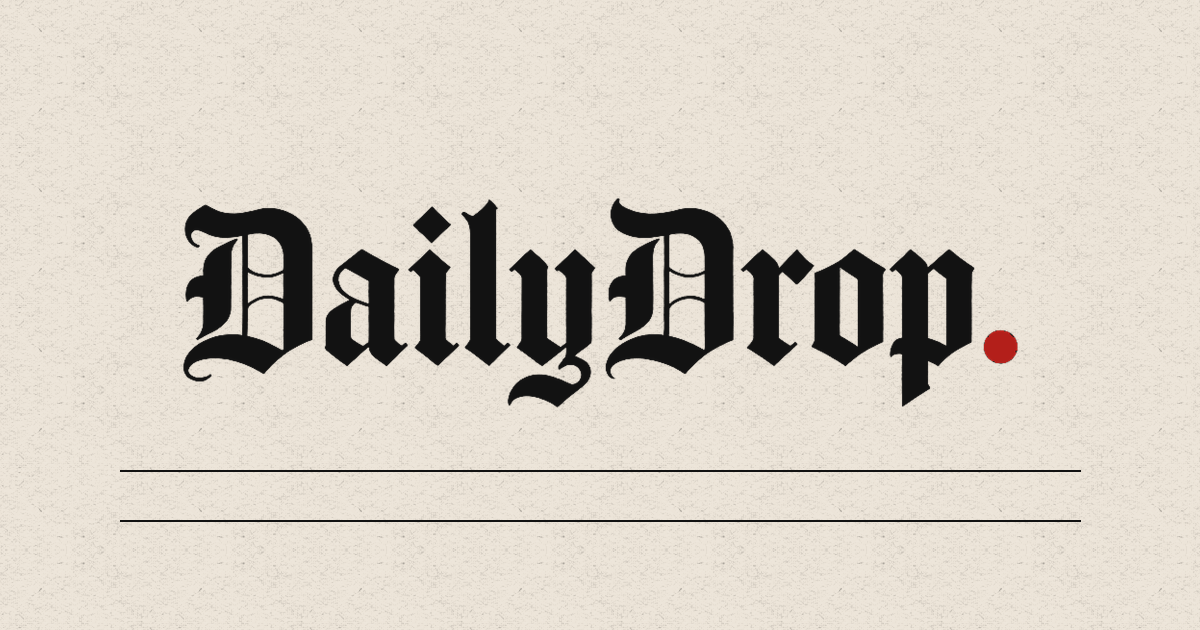
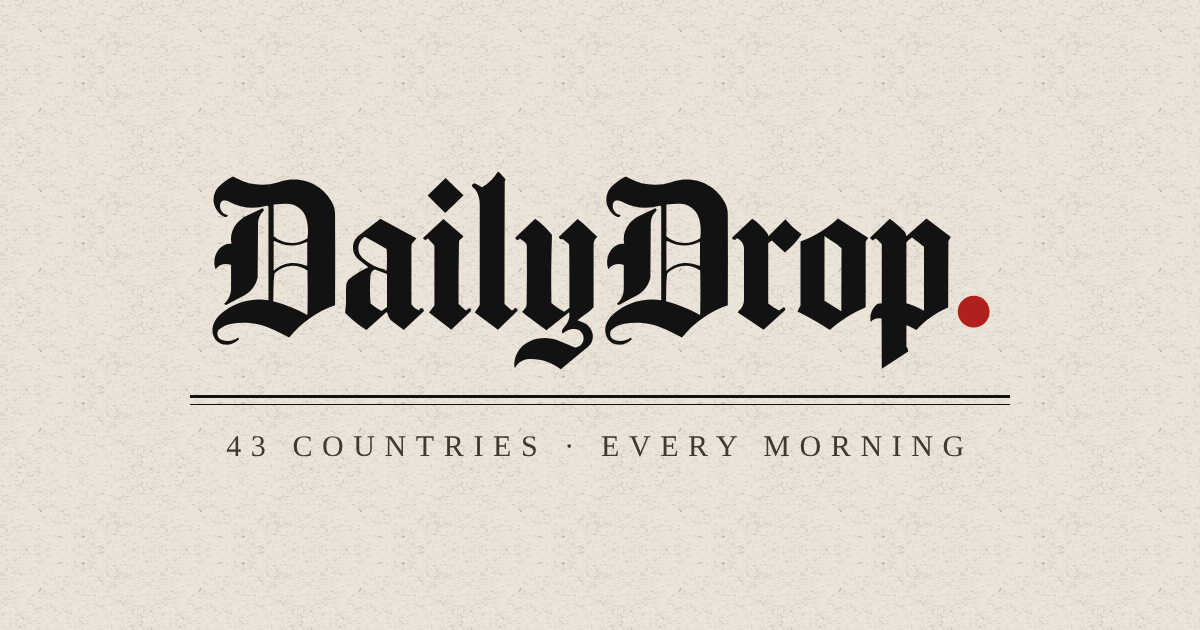
공유 미리보기 이미지 교체: 빈 줄 두 개 삭제, 로고 + '43 countries · every morning', 캐시 갱신(?v=3)
Claude-Session: https://claude.ai/code/session_01194J6eRjYk7y2N2oQRv7WX

Changed region(s): [[0.1542, 0.2714, 0.8633, 0.6635], [0.1233, 0.6937, 0.8942, 0.754], [0.1233, 0.8143, 0.8942, 0.8444]]

diff --git a/site/build.js b/site/build.js
@@ -176,7 +176,7 @@ const TEXTSCALE = `<script>(function(){try{var m=localStorage.getItem('dd_theme'
 const PAPERBG = `<style>html{background:#ece4d8}body{min-height:100vh;min-height:100dvh}@media(prefers-color-scheme:dark){html:not([data-theme="light"]){background:#14130f}}html[data-theme="dark"]{background:#14130f}</style><link rel="preconnect" href="https://fonts.googleapis.com"><link rel="preconnect" href="https://fonts.gstatic.com" crossorigin><script>(function(){var done={};function pf(u){if(!u||u.indexOf("/")!==0)return;u=u.split("?")[0].split("#")[0];if(done[u])return;done[u]=1;var l=document.createElement("link");l.rel="prefetch";l.href=u;document.head.appendChild(l)}document.addEventListener("toggle",function(e){var d=e.target;if(d&&d.open&&d.classList&&(d.classList.contains("dd-ed")||d.classList.contains("dd-lang")))d.querySelectorAll("a[href]").forEach(function(a){pf(a.getAttribute("href"))})},true);document.addEventListener("pointerdown",function(e){var a=e.target.closest&&e.target.closest(".dd-ed a[href],.dd-lang a[href],.dd-nav a[href]");if(a)pf(a.getAttribute("href"))},true)})();</script>`;
 const NOBLOCK = h => String(h).replace(/<link rel="stylesheet" href="(https:\/\/fonts\.googleapis\.com\/[^"]+)">/g, (m, u) => `<link rel="preload" as="style" href="${u}"><link rel="stylesheet" href="${u}" media="print" onload="this.media='all'"><noscript><link rel="stylesheet" href="${u}"></noscript>`).replace(/<meta charset="utf-8">/i, m => m + PAPERBG);
 { const _w = fs.writeFileSync; fs.writeFileSync = (f, d, ...r) => _w(f, typeof d === 'string' && /\.html$/.test(String(f)) && !d.includes('rel="preconnect" href="https://fonts.googleapis.com"') ? NOBLOCK(d) : d, ...r); }
-const HEAD = (title, desc, pathname = '/', lang = 'ko') => `<!doctype html><html lang="${lang}"${T(lang, 'dir') === 'rtl' ? ' dir="rtl"' : ''}><head><meta charset="utf-8">${TEXTSCALE}<meta name="viewport" content="width=device-width,initial-scale=1,viewport-fit=cover"><title>${esc(title)}</title><meta name="description" content="${esc(desc)}"><link rel="canonical" href="${SITE}${pathname}"><meta property="og:url" content="${SITE}${pathname}"><meta property="og:type" content="article"><meta property="og:title" content="${esc(title)}"><meta property="og:description" content="${esc(desc)}"><meta property="og:site_name" content="${lang === 'ko' ? '데일리드롭' : 'DailyDrop'}"><meta property="og:image" content="${SITE}/og.png"><meta name="twitter:card" content="summary_large_image"><link rel="icon" href="/brand/favicon-32.png?v=2" sizes="32x32" type="image/png"><link rel="icon" href="/brand/favicon-16.png?v=2" sizes="16x16" type="image/png"><link rel="apple-touch-icon" href="/brand/apple-touch-icon.png?v=2"><meta name="apple-mobile-web-app-title" content="DailyDrop"><meta name="application-name" content="DailyDrop"><link rel="manifest" href="/manifest.webmanifest"><meta name="theme-color" content="#ece4d8"><meta name="naver-site-verification" content="9fbffe5f4e2d380695044c9f778361f1cd05d958"><meta name="google-adsense-account" content="ca-pub-3262200458718888">${NAVCSS}${ACC.NAV_CSS}${XFONTS(lang)}${T(lang, 'dir') === 'rtl' ? RTLCSS : ''}</head><body${lang !== 'ko' ? ` data-filler="${esc(T(lang, 'filler'))}"` : ''}>`;
+const HEAD = (title, desc, pathname = '/', lang = 'ko') => `<!doctype html><html lang="${lang}"${T(lang, 'dir') === 'rtl' ? ' dir="rtl"' : ''}><head><meta charset="utf-8">${TEXTSCALE}<meta name="viewport" content="width=device-width,initial-scale=1,viewport-fit=cover"><title>${esc(title)}</title><meta name="description" content="${esc(desc)}"><link rel="canonical" href="${SITE}${pathname}"><meta property="og:url" content="${SITE}${pathname}"><meta property="og:type" content="article"><meta property="og:title" content="${esc(title)}"><meta property="og:description" content="${esc(desc)}"><meta property="og:site_name" content="${lang === 'ko' ? '데일리드롭' : 'DailyDrop'}"><meta property="og:image" content="${SITE}/og.png?v=3"><meta name="twitter:card" content="summary_large_image"><link rel="icon" href="/brand/favicon-32.png?v=2" sizes="32x32" type="image/png"><link rel="icon" href="/brand/favicon-16.png?v=2" sizes="16x16" type="image/png"><link rel="apple-touch-icon" href="/brand/apple-touch-icon.png?v=2"><meta name="apple-mobile-web-app-title" content="DailyDrop"><meta name="application-name" content="DailyDrop"><link rel="manifest" href="/manifest.webmanifest"><meta name="theme-color" content="#ece4d8"><meta name="naver-site-verification" content="9fbffe5f4e2d380695044c9f778361f1cd05d958"><meta name="google-adsense-account" content="ca-pub-3262200458718888">${NAVCSS}${ACC.NAV_CSS}${XFONTS(lang)}${T(lang, 'dir') === 'rtl' ? RTLCSS : ''}</head><body${lang !== 'ko' ? ` data-filler="${esc(T(lang, 'filler'))}"` : ''}>`;
 // 한·영·일 외 문자권 페이지만 그 문자의 Noto 글꼴을 더 불러온다(ko/en/ja 페이지는 그대로)
 const XFONT = { hi: ['Noto Serif Devanagari', 'Noto Sans Devanagari'], th: ['Noto Serif Thai', 'Noto Sans Thai'], ar: ['Noto Naskh Arabic', 'Noto Sans Arabic'], he: ['Noto Serif Hebrew', 'Noto Sans Hebrew'], 'zh-TW': ['Noto Serif TC', 'Noto Sans TC'] };
 const XFONTS = l => { const f = XFONT[l]; return f ? `<link rel="stylesheet" href="https://fonts.googleapis.com/css2?${f.map(n => `family=${n.replace(/ /g, '+')}:wght@400;700`).join('&')}&display=swap"><style>html:root{--serif:"Noto Serif","${f[0]}",Georgia,serif;--sans:"Noto Sans","${f[1]}",sans-serif}html body,.dd-nav{font-family:var(--serif)}</style>` : ''; };
@@ -250,7 +250,7 @@ const MASTCSS = (() => { const L = fs.readFileSync(path.join(__dirname, 'nyt.css
 const EARLY_MAST = h => h.replace('<div class="mast">', MASTCSS + '<div class="mast">');
 // 검색엔진: 호 페이지마다 (1) 원문·번역본끼리 hreflang 상호 연결 (2) 뉴스 기사 구조화 데이터(JSON-LD) (3) 그 호 핵심 3건을 설명문으로.
 const SEO_ALT = variants => variants.map(([l, u]) => `<link rel="alternate" hreflang="${l}" href="${SITE}${u}">`).join('') + `<link rel="alternate" hreflang="x-default" href="${SITE}${variants[0][1]}">`;
-const SEO_LD = (e, title, desc, url, lang) => '<script type="application/ld+json">' + JSON.stringify({ '@context': 'https://schema.org', '@type': 'NewsArticle', headline: title.slice(0, 110), description: desc, url: SITE + url, mainEntityOfPage: SITE + url, inLanguage: lang, datePublished: e.publish_at || e.date, dateModified: e.publish_at || e.date, image: [SITE + '/og.png'], isAccessibleForFree: true, author: { '@type': 'Organization', name: 'DailyDrop', url: SITE + '/about/' }, publisher: { '@type': 'NewsMediaOrganization', name: 'DailyDrop', url: SITE + '/', logo: { '@type': 'ImageObject', url: SITE + '/brand/icon-512.png', width: 512, height: 512 } } }).replace(/</g, '\\u003c') + '</script>';
+const SEO_LD = (e, title, desc, url, lang) => '<script type="application/ld+json">' + JSON.stringify({ '@context': 'https://schema.org', '@type': 'NewsArticle', headline: title.slice(0, 110), description: desc, url: SITE + url, mainEntityOfPage: SITE + url, inLanguage: lang, datePublished: e.publish_at || e.date, dateModified: e.publish_at || e.date, image: [SITE + '/og.png?v=3'], isAccessibleForFree: true, author: { '@type': 'Organization', name: 'DailyDrop', url: SITE + '/about/' }, publisher: { '@type': 'NewsMediaOrganization', name: 'DailyDrop', url: SITE + '/', logo: { '@type': 'ImageObject', url: SITE + '/brand/icon-512.png', width: 512, height: 512 } } }).replace(/</g, '\\u003c') + '</script>';
 const SEO_HEAD = (page, extra) => page.replace('</head>', extra + '</head>');
 // 나라 1면(최신 호 사본)에는 날짜 페이지용 hreflang 을 남기지 않는다(대표 주소가 다르므로)
 const NOALT = h => h.replace(/<link rel="alternate" hreflang="[^"]*" href="[^"]*">/g, '');
@@ -325,7 +325,7 @@ const ARTS = (h, e, l, base, edUrl, X) => { const m = h.match(/const A = (\{[\s\
   for (const [id0, a] of Object.entries(A)) { if (!a || typeof a !== 'object' || !a.title) continue; const id = id0.replace(/[^\w-]/g, ''); const t = plain(a.title); const desc = plain(a.what).slice(0, 160);
     const url = `${base}a/${id}/`; const paras = [a.what, a.why, a.me, a.a, a.b, a.say].map(plain).filter(Boolean);
     const links = ((X && X.src && X.src[id0]) || []).filter(s => s && /^https?:\/\//.test(s.u || '')).map(s => `<li><a href="${esc(s.u)}" rel="noopener nofollow" target="_blank">${esc(s.n || s.u)}</a></li>`).join('');
-    const ld = '<script type="application/ld+json">' + JSON.stringify({ '@context': 'https://schema.org', '@type': 'NewsArticle', headline: t.slice(0, 110), description: desc, url: SITE + url, mainEntityOfPage: SITE + url, inLanguage: l, datePublished: when, dateModified: when, image: [SITE + '/og.png'], isAccessibleForFree: true, isPartOf: { '@type': 'CreativeWork', name: edT, url: SITE + edUrl }, author: { '@type': 'Organization', name: 'DailyDrop', url: SITE + '/about/' }, publisher: { '@type': 'NewsMediaOrganization', name: 'DailyDrop', url: SITE + '/', logo: { '@type': 'ImageObject', url: SITE + '/brand/icon-512.png', width: 512, height: 512 } } }).replace(/</g, '\\u003c') + '</script>';
+    const ld = '<script type="application/ld+json">' + JSON.stringify({ '@context': 'https://schema.org', '@type': 'NewsArticle', headline: t.slice(0, 110), description: desc, url: SITE + url, mainEntityOfPage: SITE + url, inLanguage: l, datePublished: when, dateModified: when, image: [SITE + '/og.png?v=3'], isAccessibleForFree: true, isPartOf: { '@type': 'CreativeWork', name: edT, url: SITE + edUrl }, author: { '@type': 'Organization', name: 'DailyDrop', url: SITE + '/about/' }, publisher: { '@type': 'NewsMediaOrganization', name: 'DailyDrop', url: SITE + '/', logo: { '@type': 'ImageObject', url: SITE + '/brand/icon-512.png', width: 512, height: 512 } } }).replace(/</g, '\\u003c') + '</script>';
     const css = `<style>main{max-width:680px}.ak{font:600 12px/1.4 var(--sans,system-ui);letter-spacing:.04em;color:var(--mute);margin:18px 0 6px}.at{font-size:clamp(24px,5.4vw,34px);line-height:1.25;margin:0 0 14px;text-wrap:balance}.at:lang(ko){word-break:keep-all}main p{text-align:justify;hyphens:auto;line-height:1.75}.ae{color:var(--mute);font-size:13px;margin-top:22px}.as{font-size:13px;padding-left:18px}.as a{color:inherit}</style>`;
     const body = `<main><div class="ak">${esc(plain(a.kick))}</div><h1 class="at">${esc(t)}</h1>${paras.map(p => `<p>${esc(p)}</p>`).join('')}${links ? `<ul class="as">${links}</ul>` : ''}<p class="ae">${esc(edT)}</p><p><a class="btn" href="${edUrl}#${id}">${esc(read)}</a></p></main>`;
     const page = SEO_HEAD(HEAD(`${t} · DailyDrop`, desc, url, l) + FONTS + BASELINK() + css + NAV('/' + R.prefix, r) + body + JUSTIFY.replace("var SEL='", "var SEL='main p:not(.ae),") + '</body></html>', ld);
